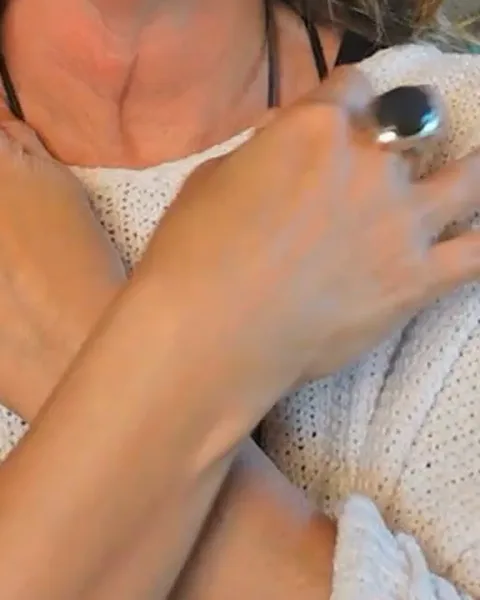
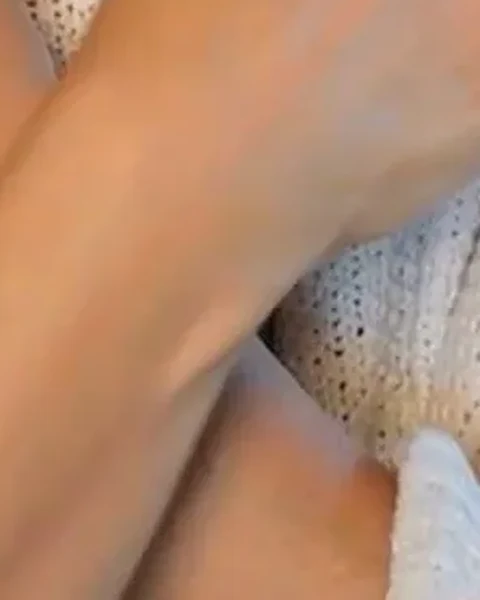
Page de vente des Rituels (/rituels-essentiels) : l'éventail d'arrêts sur image et l'extrait qui coupaient le visage de Krystine remplacés par la photo « Le fondu », sans visage; les images du soin du nez et de l'automassage recadrées pour ne garder que les gestes

diff --git a/src/pages/RituelsEssentielsPage.tsx b/src/pages/RituelsEssentielsPage.tsx
@@ -233,44 +233,20 @@ const Still: React.FC<{ src: string; className?: string; eager?: boolean }> = ({
 
 /* ════════════════════════ Couverture : l'extrait vidéo au centre de l'éventail ════════════════════════ */
 
-const FAN: Array<[string, number, string, number]> = [
-  ['automassage-oreilles', -13, '-50%', 1],
-  ['soin-du-nez', -6.5, '-25%', 2],
-  ['soin-de-la-bouche', 6.5, '25%', 2],
-  ['mains', 13, '50%', 1],
-];
 
+// Le haut de page : la photo professionnelle « Le fondu » (la goutte, le
+// roll-on, le pied sur le tricot), sans aucun visage. L'éventail d'arrêts sur
+// image coupait le visage de Krystine (« c'est l'horreur », 15 oct. 2026).
 const VideoFan: React.FC = () => {
   const reduce = useReducedMotion();
-  // React ne pose pas l'attribut muted : sans lui, les téléphones refusent la lecture automatique.
-  const video = useRef<HTMLVideoElement>(null);
-  useEffect(() => {
-    const v = video.current;
-    if (!v || reduce) return;
-    v.muted = true;
-    v.play().catch(() => {});
-  }, [reduce]);
   return (
     <figure className="min-w-0">
-      <div className="relative mx-auto w-[min(84vw,380px)] lg:w-full aspect-[1/0.86] select-none">
-        {FAN.map(([id, rot, x, z], i) => (
-          <div key={id} aria-hidden className="absolute bottom-[3%] left-1/2 w-[38%] -ml-[19%]" style={{ zIndex: z }}>
-            <motion.div className="origin-bottom will-change-transform" initial={reduce ? false : { rotate: 0, x: '0%', y: 30, opacity: 0 }}
-              animate={{ rotate: rot, x, y: z === 1 ? '5%' : '1.5%', opacity: 1 }} transition={{ duration: 1.2, ease, delay: 0.35 + i * 0.08 }}>
-              <Still src={img(id)} eager />
-            </motion.div>
-          </div>
-        ))}
-        <div className="absolute bottom-[3%] left-1/2 w-[46%] -ml-[23%]" style={{ zIndex: 3 }}>
-          <motion.div className="will-change-transform" initial={reduce ? false : { y: 30, opacity: 0 }} animate={{ y: 0, opacity: 1 }} transition={{ duration: 1.2, ease, delay: 0.3 }}>
-            <video ref={video} src="/rituels-vivants/extrait-krystine-parle.mp4" poster="/rituels-vivants/extrait-krystine-parle-poster.webp"
-              autoPlay={!reduce} muted loop playsInline preload="auto" aria-label="Krystine présente les Rituels essentiels"
-              className="block w-full aspect-[4/5] object-cover rounded-[4px] border"
-              style={{ borderColor: 'rgba(28,23,18,0.1)', boxShadow: '0 30px 60px -26px rgba(28,23,18,0.6), 0 2px 6px rgba(28,23,18,0.08)' }} />
-            <span aria-hidden className="absolute inset-x-0 -bottom-[10px] mx-auto block h-[2px] w-12" style={{ background: C.accent }} />
-          </motion.div>
-        </div>
-      </div>
+      <motion.div className="relative mx-auto w-[min(88vw,440px)] lg:w-full will-change-transform" initial={reduce ? false : { y: 30, opacity: 0 }} animate={{ y: 0, opacity: 1 }} transition={{ duration: 1.2, ease, delay: 0.3 }}>
+        <img src="/rituels-vivants/seuil.webp" alt="Une goutte d’huile, un roll-on au poignet et un pied posé sur un tricot" width={1040} height={1000} loading="eager" decoding="async"
+          className="block w-full h-auto aspect-[26/25] object-cover rounded-[4px] border"
+          style={{ borderColor: 'rgba(28,23,18,0.1)', boxShadow: '0 30px 60px -26px rgba(28,23,18,0.6), 0 2px 6px rgba(28,23,18,0.08)' }} />
+        <span aria-hidden className="absolute inset-x-0 -bottom-[10px] mx-auto block h-[2px] w-12" style={{ background: C.accent }} />
+      </motion.div>
       <figcaption className="mt-7 text-center text-[0.58rem] sm:text-[0.62rem] uppercase tracking-[0.16em] sm:tracking-[0.24em]" style={{ color: 'rgba(28,23,18,0.62)' }}>
         Les gestes, pas à pas
       </figcaption>
